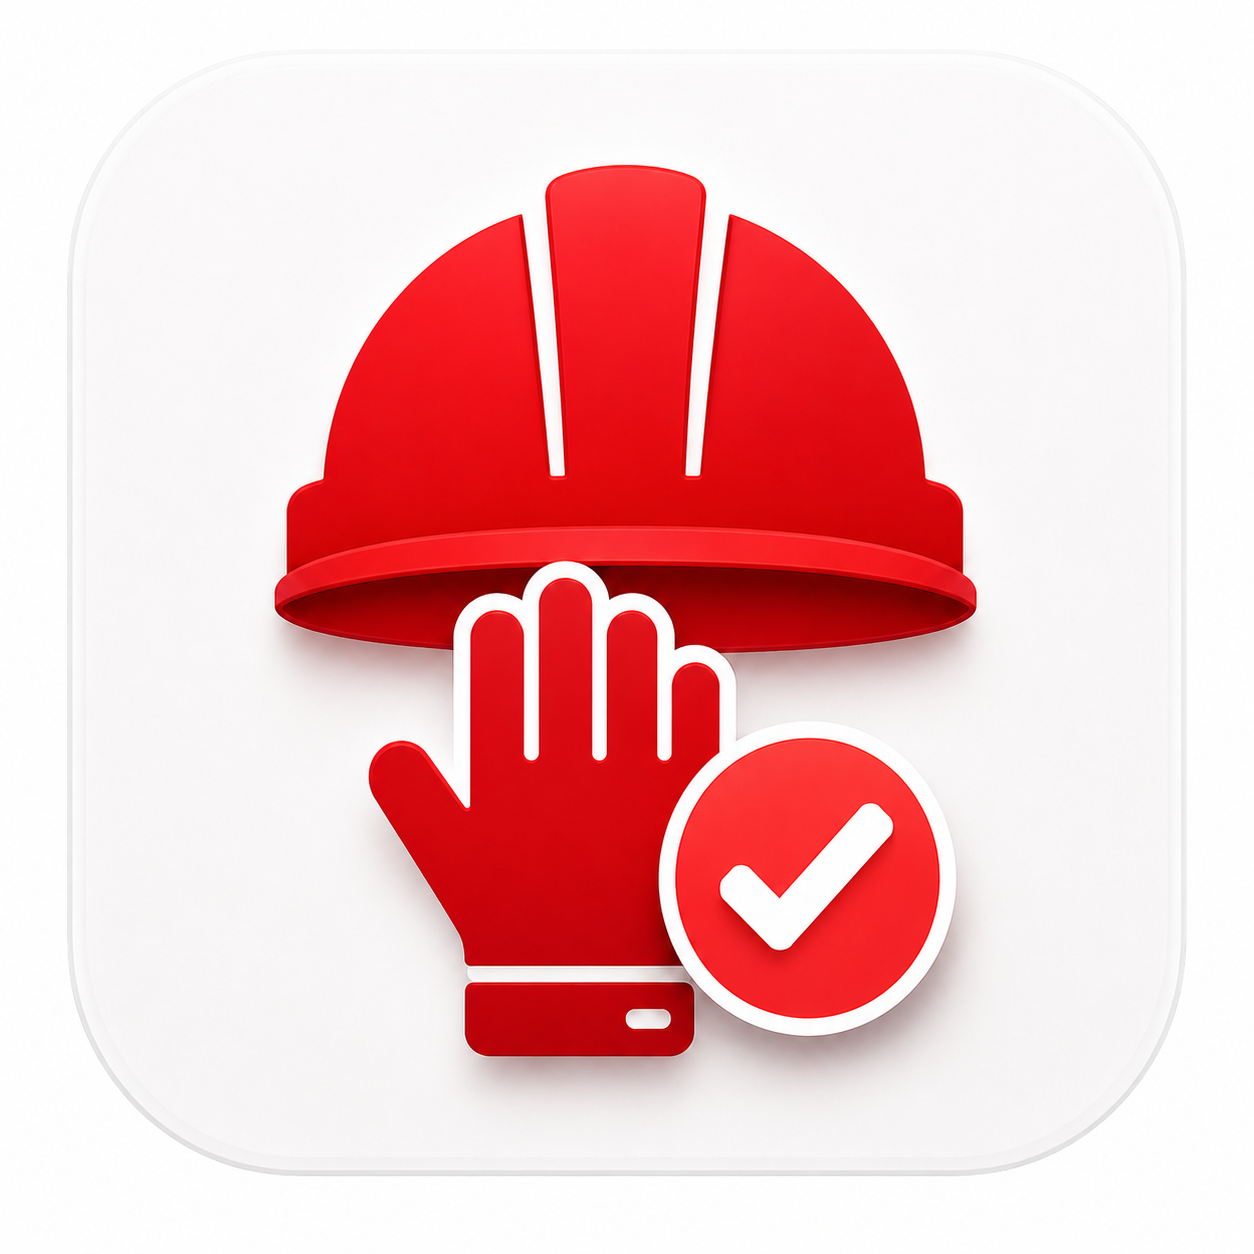
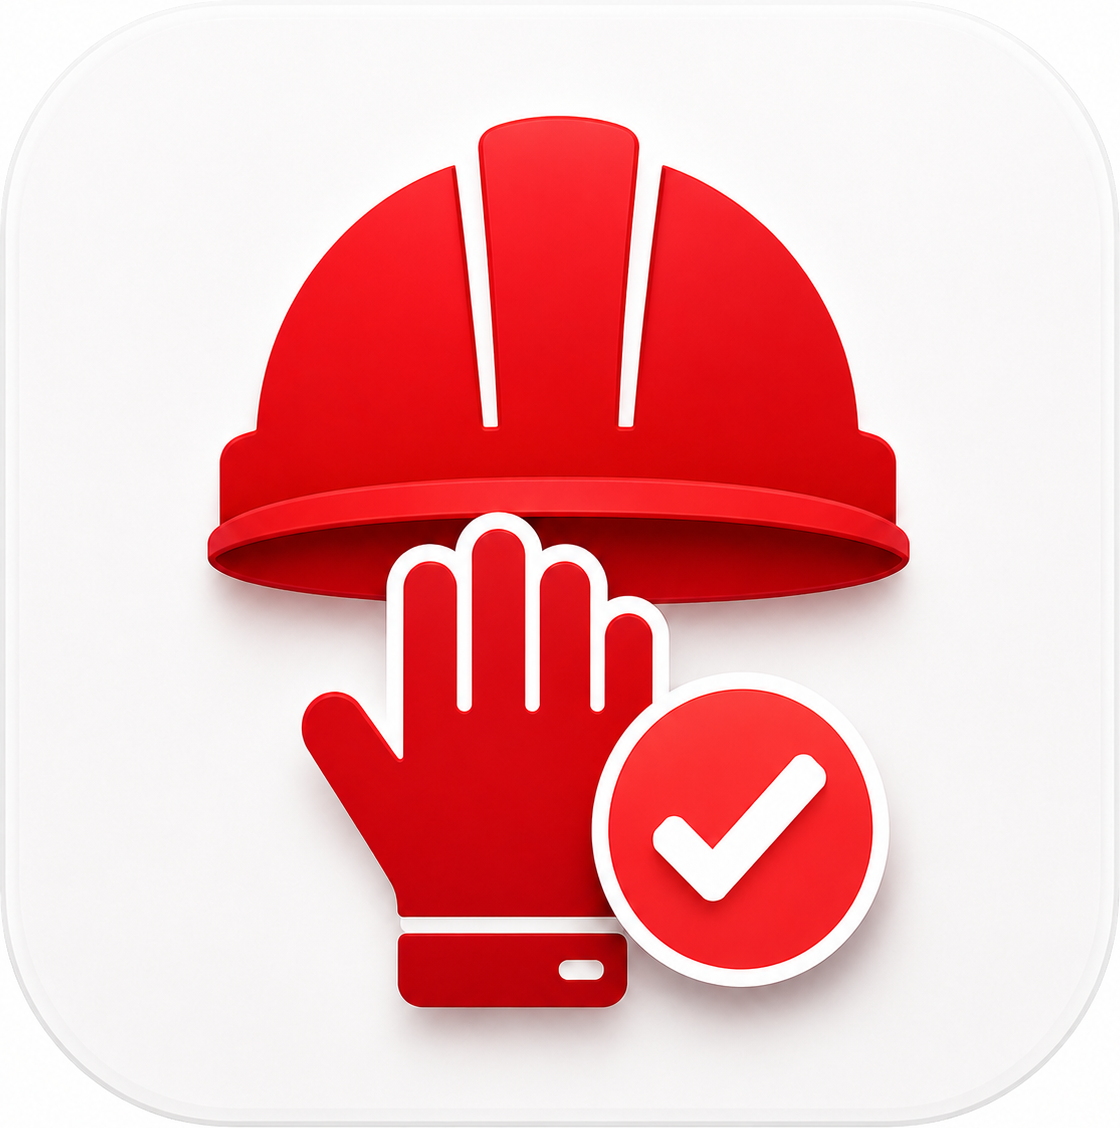
Иконки: обрезаны белые поля + прозрачная подложка для картинок
siz.png/svet.png обрезаны по границе иконки (убрано белое поле вокруг
плитки). Картинка скругляется (border-radius 22%), а плитка-бейдж под
картинкой делается прозрачной без тени — за углами фон стола, не белое.

diff --git a/src/theme/app.css b/src/theme/app.css
@@ -152,8 +152,15 @@ code {
   width: 100%;
   height: 100%;
   object-fit: cover;
-  border-radius: inherit;
+  border-radius: 22%;
   display: block;
+}
+/* Для картинок убираем белую подложку-плитку и тень — иконка сама и есть плитка,
+   а за её скруглёнными углами виден фон рабочего стола, а не белое поле. */
+.app-icon__badge:has(.app-icon__img),
+.dock__item:has(.app-icon__img) {
+  background: transparent;
+  box-shadow: none;
 }
 
 /* ─ Док ──────────────────────────────────────────────────────── */
